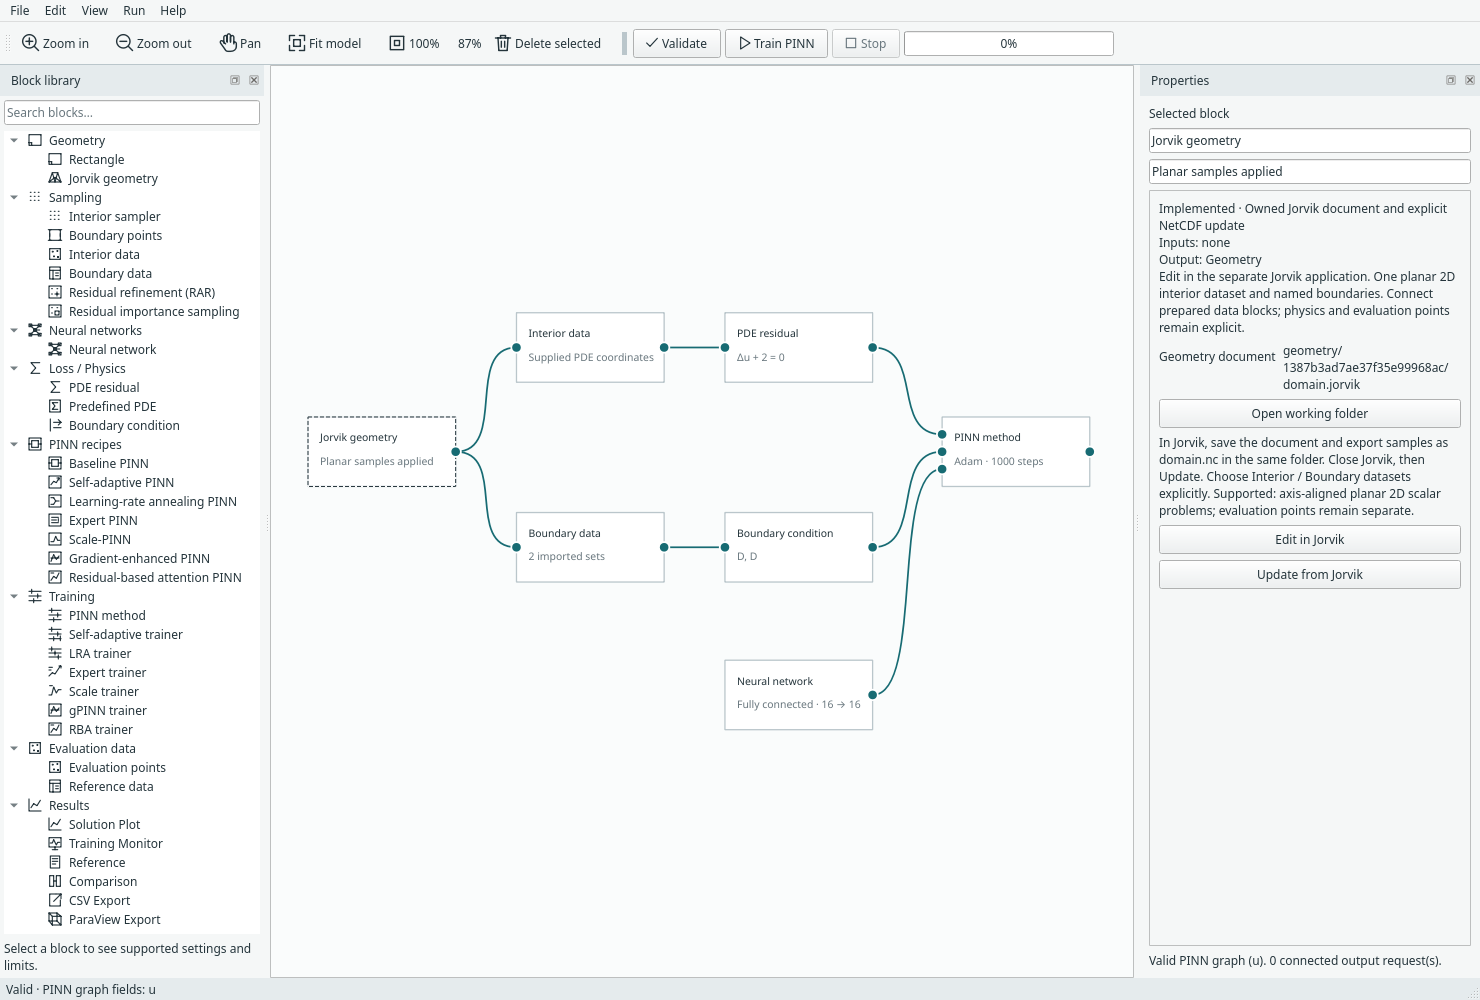
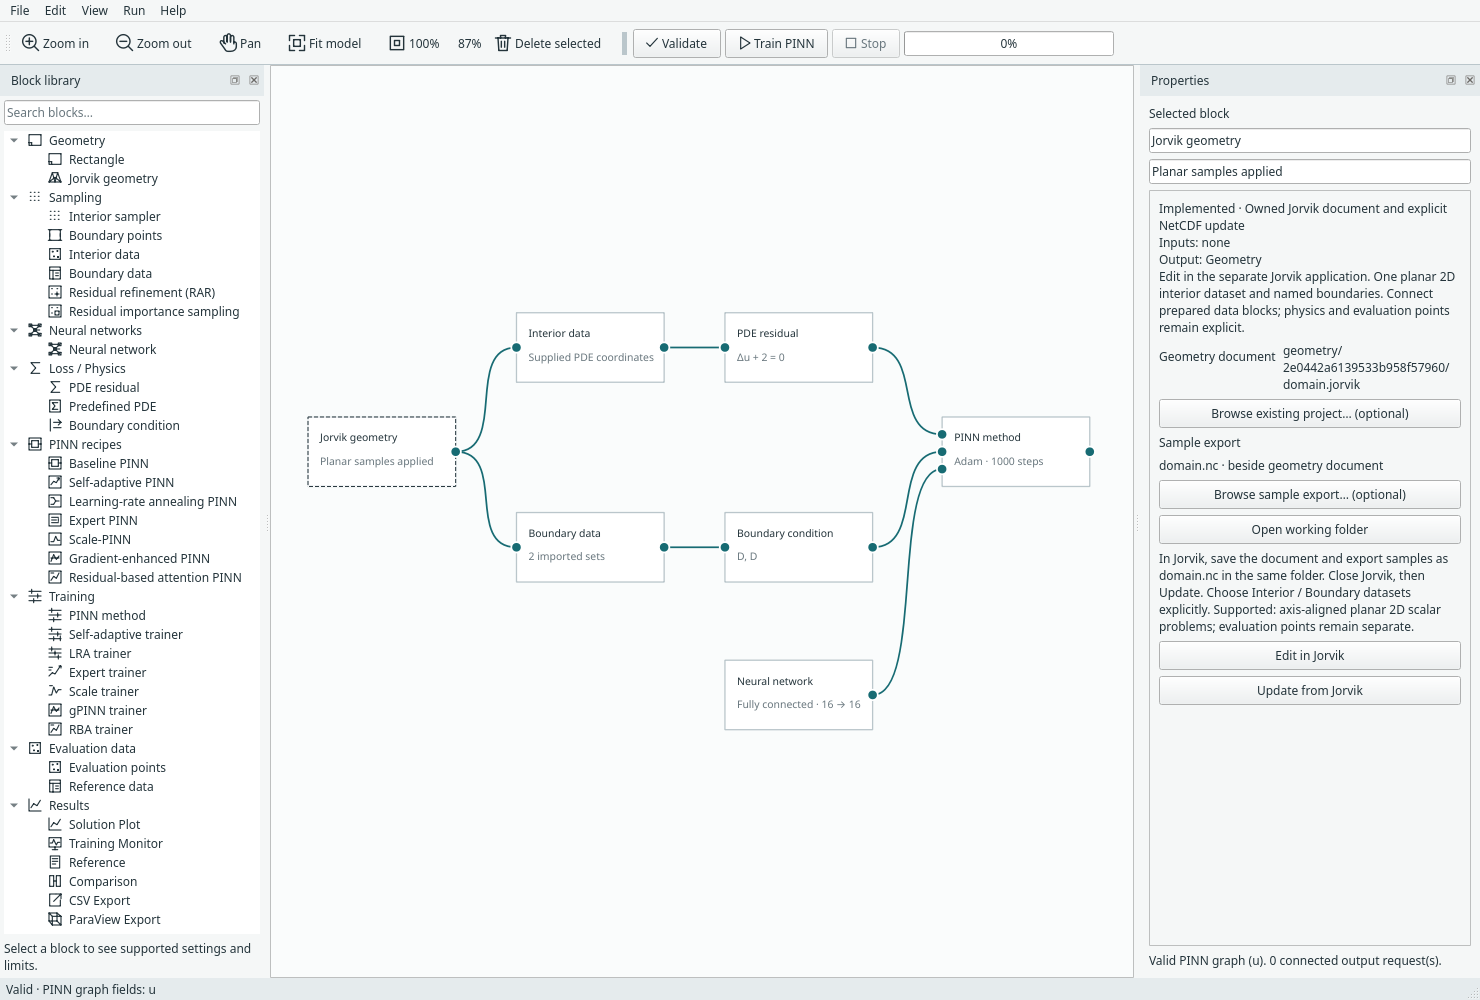
Add optional Jorvik project and sample export file pickers
Keep selected files as validated owned copies, preserve portable undoable choices, and retain explicit sample updates.

Changed region(s): [[0.777, 0.403, 0.9946, 0.713], [0.8703, 0.341, 0.9635, 0.372]]

diff --git a/margam/ui/jorvik_geometry.py b/margam/ui/jorvik_geometry.py
@@ -4,10 +4,11 @@ import hashlib
 from pathlib import Path
 import shutil
 import sys
+from zipfile import BadZipFile
 from uuid import uuid4
 from PySide6.QtCore import QProcess, QIODevice, QUrl
 from PySide6.QtGui import QDesktopServices
-from PySide6.QtWidgets import QDialog, QDialogButtonBox, QVBoxLayout, QFormLayout, QLabel, QComboBox, QLineEdit, QMessageBox, QPushButton
+from PySide6.QtWidgets import QDialog, QDialogButtonBox, QVBoxLayout, QFormLayout, QLabel, QComboBox, QLineEdit, QMessageBox, QPushButton, QFileDialog
 from ..components.jorvik_data import records, inspect_selection
 from .graph_model import parameters_for
 
@@ -44,12 +45,64 @@ class DatasetDialog(QDialog):
 
 class JorvikGeometryActions:
     def jorvik_document(self,node,create=False):
-        path=Path(self.project_workspace.resolve('margam-owned:'+document_relative(node.identifier)))
+        reference=node.settings.get('jorvik_files',{}).get('document','margam-owned:'+document_relative(node.identifier))
+        path=Path(self.project_workspace.resolve(reference))
         if create and not path.exists():
             from jorvik.project import create_empty_project
             path.parent.mkdir(parents=True,exist_ok=True)
             create_empty_project(path)
         return path
+
+    def jorvik_export(self,node):
+        reference=node.settings.get('jorvik_files',{}).get('export')
+        return Path(self.project_workspace.resolve(reference)) if reference else self.jorvik_document(node).with_suffix('.nc')
+
+    def browse_jorvik(self,node,kind,path=None):
+        if self.is_running() or self.scene.locked:return False
+        if kind not in ('document','export'):raise ValueError('Unknown Jorvik file role.')
+        if path is None:
+            title,pattern=('Choose existing Jorvik project','Jorvik project (*.jorvik *.gsproj)') if kind=='document' else ('Choose Jorvik sample export','NetCDF samples (*.nc)')
+            path,_=QFileDialog.getOpenFileName(self,title,str(self.jorvik_document(node).parent),pattern)
+        if not path:return False
+        copied=None
+        try:
+            source=Path(path)
+            if kind=='document':
+                if source.suffix.lower() not in ('.jorvik','.gsproj'):raise ValueError('Choose a Jorvik project file.')
+                from jorvik.project import load_project
+                load_project(source)
+            else:
+                if source.suffix.lower()!='.nc':raise ValueError('Choose a NetCDF sample export.')
+                records(source)
+            relative=Path(document_relative(node.identifier)).parent/'imports'/uuid4().hex/('domain.jorvik' if kind=='document' else 'domain.nc')
+            copied=Path(self.project_workspace.resolve('margam-owned:'+relative.as_posix()))
+            copied.parent.mkdir(parents=True,exist_ok=True);shutil.copyfile(source,copied)
+            # Check the owned copy before changing any block settings.
+            if kind=='document':load_project(copied)
+            else:records(copied)
+            old=deepcopy(node.settings);new=deepcopy(old)
+            files=new.setdefault('jorvik_files',{})
+            files[kind]='margam-owned:'+relative.as_posix()
+            if kind=='document':
+                files.pop('export',None);files['needs_update']=True
+            def apply(settings):
+                node.settings=deepcopy(settings);self.graph_changed();self.selection_changed()
+            self.push_edit('Choose Jorvik '+kind,lambda:apply(new),lambda:apply(old))
+            self.statusBar().showMessage('Copied '+source.name+' into this project · Update from Jorvik to apply samples')
+            return True
+        except (OSError,ValueError,TypeError,KeyError,ImportError,BadZipFile) as error:
+            if copied is not None:copied.unlink(missing_ok=True)
+            QMessageBox.warning(self,'Jorvik file could not be selected',str(error));return False
+
+    def use_adjacent_jorvik_export(self,node):
+        if self.is_running() or self.scene.locked:return False
+        old=deepcopy(node.settings);new=deepcopy(old)
+        new.get('jorvik_files',{}).pop('export',None)
+        if old==new:return False
+        def apply(settings):
+            node.settings=deepcopy(settings);self.graph_changed();self.selection_changed()
+        self.push_edit('Use adjacent Jorvik export',lambda:apply(new),lambda:apply(old))
+        return True
 
     def edit_jorvik(self,node):
         if self.is_running() or self.scene.locked:return False
@@ -85,7 +138,7 @@ class JorvikGeometryActions:
         if self.is_running() or self.scene.locked:return False
         snapshot=None
         try:
-            path=self.jorvik_document(node).with_suffix('.nc')
+            path=self.jorvik_export(node)
             previous=node.settings.get('jorvik',{})
             if selections is None:
                 dialog=DatasetDialog(path,previous,self)
@@ -134,6 +187,7 @@ class JorvikGeometryActions:
                     datasets[identity]=dict(role='interior',name=record['label'])
             for name,record in report['boundaries'].items():datasets[record['identity']]=dict(role='boundary',name=name)
             new[node.identifier]['jorvik']=dict(axes=report['axes'],datasets=datasets,sha256=report['sha256'])
+            if 'jorvik_files' in new[node.identifier]:new[node.identifier]['jorvik_files']['needs_update']=False
             interior=new[sources['interior_data'].identifier]['parameters'];interior.update(interior_data=mapping(report['interior']),adaptive_sampling={})
             boundary=new[sources['boundary_data'].identifier]['parameters'];boundary['boundary_data']={name:mapping(record['mapping']) for name,record in report['boundaries'].items()}
             for physics_node in physics_nodes:
@@ -163,7 +217,14 @@ class JorvikGeometryActions:
 
     def jorvik_fields(self,node):
         path=self.jorvik_document(node)
-        label=QLabel(document_relative(node.identifier));label.setToolTip(str(path));label.setWordWrap(True);self.form.addRow('Geometry document',label)
+        relative=node.settings.get('jorvik_files',{}).get('document','margam-owned:'+document_relative(node.identifier)).removeprefix('margam-owned:')
+        label=QLabel(relative);label.setToolTip(str(path));label.setWordWrap(True);self.form.addRow('Geometry document',label)
+        browse=QPushButton('Browse existing project… (optional)');browse.clicked.connect(lambda:self.browse_jorvik(node,'document'));self.form.addRow(browse)
+        export=self.jorvik_export(node)
+        label=QLabel(export.name+(' · selected copy' if node.settings.get('jorvik_files',{}).get('export') else ' · beside geometry document'));label.setToolTip(str(export));self.form.addRow('Sample export',label)
+        browse=QPushButton('Browse sample export… (optional)');browse.clicked.connect(lambda:self.browse_jorvik(node,'export'));self.form.addRow(browse)
+        if node.settings.get('jorvik_files',{}).get('export'):
+            reset=QPushButton('Use export beside geometry document');reset.clicked.connect(lambda:self.use_adjacent_jorvik_export(node));self.form.addRow(reset)
         folder=QPushButton('Open working folder');folder.clicked.connect(lambda:QDesktopServices.openUrl(QUrl.fromLocalFile(str(path.parent))));self.form.addRow(folder)
         note=QLabel('In Jorvik, save the document and export samples as domain.nc in the same folder. Close Jorvik, then Update. Choose Interior / Boundary datasets explicitly. Supported: axis-aligned planar 2D scalar problems; evaluation points remain separate.');note.setWordWrap(True);self.form.addRow(note)
         for text,action in [('Edit in Jorvik',self.edit_jorvik),('Update from Jorvik',self.update_jorvik)]:

diff --git a/margam/ui/model_document.py b/margam/ui/model_document.py
@@ -27,7 +27,7 @@ def number(value):
 def decode_document(data):
     """Validate editor structure; incomplete/physically invalid drafts are allowed."""
     require(isinstance(data, dict) and set(data) == {'format', 'version', 'config', 'nodes', 'wires'}, 'Invalid Margam model document.')
-    require(data['format'] == 'margam-model' and type(data['version']) is int and data['version'] in (1,2,3,4,5,6,7,8,9,10,11,12,13,14,15,16,17,18,19,20,21,22,23,24), 'Unsupported Margam model format/version.')
+    require(data['format'] == 'margam-model' and type(data['version']) is int and data['version'] in (1,2,3,4,5,6,7,8,9,10,11,12,13,14,15,16,17,18,19,20,21,22,23,24,25), 'Unsupported Margam model format/version.')
     c = data['config']
     if isinstance(c,dict) and data['version'] in (1,2,3,4,5,6,7,8,9,10):
         c=dict(c)
@@ -121,10 +121,21 @@ def decode_document(data):
         require(isinstance(node['title'],str) and 0 < len(node['title'].strip()) <= 256, 'Invalid block name.')
         require(isinstance(node['position'],list) and len(node['position']) == 2 and all(number(v) and abs(v) <= 1e9 for v in node['position']), 'Invalid block position.')
         settings = node['settings']
-        require(isinstance(settings,dict) and {'resolution','history_limit'} <= set(settings) <= {'resolution','history_limit','reference_expression','reference_data','parameters','source_data','jorvik'}, 'Invalid output settings.')
+        require(isinstance(settings,dict) and {'resolution','history_limit'} <= set(settings) <= {'resolution','history_limit','reference_expression','reference_data','parameters','source_data','jorvik','jorvik_files'}, 'Invalid output settings.')
         require(type(settings['resolution']) is int and 2 <= settings['resolution'] <= 201 and type(settings['history_limit']) is int and 25 <= settings['history_limit'] <= 100000, 'Unsupported output settings.')
         require(isinstance(settings.get('reference_expression',''),str) and len(settings.get('reference_expression',''))<=512,'Invalid reference expression.')
         if settings.get('reference_data'):validate_mapping(settings['reference_data'])
+        if 'jorvik_files' in settings:
+            from pathlib import PurePosixPath
+            files=settings['jorvik_files']
+            require(node['kind']=='jorvik_geometry' and isinstance(files,dict) and set(files)<={'document','export','needs_update'},'Invalid Jorvik file choices.')
+            if 'needs_update' in files:require(type(files['needs_update']) is bool,'Invalid Jorvik update state.')
+            for kind in ('document','export'):
+                if kind not in files:continue
+                value=files[kind]
+                require(isinstance(value,str) and value.startswith('margam-owned:') and len(value)<=4096,'Jorvik choices must be project-owned.')
+                relative=PurePosixPath(value.removeprefix('margam-owned:'))
+                require(not relative.is_absolute() and '..' not in relative.parts and '\\' not in value and relative.suffix==('.jorvik' if kind=='document' else '.nc'),'Invalid owned Jorvik file path.')
         if 'jorvik' in settings:
             j=settings['jorvik']
             require(node['kind']=='jorvik_geometry' and isinstance(j,dict) and set(j)=={'axes','datasets','sha256'},'Invalid Jorvik settings.')
@@ -178,7 +189,7 @@ def decode_document(data):
             if node['kind'] in ('interior','interior_data'):require(parameters['adaptive_sampling']=={},'Use a dedicated adaptive sampler block.')
             if node['kind']=='network':require(type(parameters['network_seed']) is int,'Network instances require an explicit seed.')
             trial=asdict(config);trial.update(parameters)
-            decode_document({'format':'margam-model','version':24,'config':trial,'nodes':[],'wires':[]})
+            decode_document({'format':'margam-model','version':25,'config':trial,'nodes':[],'wires':[]})
         by_id[identifier] = node
     occupied = set()
     for wire in wires:
@@ -196,7 +207,7 @@ def decode_document(data):
 
 
 def capture_model(window):
-    document = {'format':'margam-model', 'version':24, 'config':asdict(window.config),
+    document = {'format':'margam-model', 'version':25, 'config':asdict(window.config),
             'nodes':[{'id':n.identifier,'kind':n.kind,'title':n.title,
                       'position':[n.pos().x(),n.pos().y()],'settings':deepcopy(n.settings)}
                      for n in sorted(window.scene.nodes(),key=lambda n:n.identifier)],

diff --git a/tests/test_jorvik.py b/tests/test_jorvik.py
@@ -75,9 +75,29 @@ with TemporaryDirectory() as directory:
     for node in list(w.scene.nodes()):
         if node.kind in ('domain','interior','boundary'):w.delete_block(node)
     geometry=w.add_node('Jorvik geometry')
+    initial=w.jorvik_document(geometry)
+    from jorvik.project import create_empty_project
+    external=Path(directory)/'existing.gsproj';create_empty_project(external)
+    original=external.read_bytes()
+    with patch('margam.ui.jorvik_geometry.QFileDialog.getOpenFileName',return_value=('','')):
+        assert not w.browse_jorvik(geometry,'document')
+    assert w.jorvik_document(geometry)==initial
+    assert w.browse_jorvik(geometry,'document',external)
+    assert external.read_bytes()==original and w.jorvik_document(geometry)!=external
+    w.undo_edit();assert w.jorvik_document(geometry)==initial
+    w.redo_edit()
     project=w.jorvik_document(geometry)
     assert project.suffix=='.jorvik' and project.exists()
     fixture(project.with_suffix('.nc'))
+    external_nc=Path(directory)/'different-name.nc';shutil.copyfile(project.with_suffix('.nc'),external_nc)
+    assert w.browse_jorvik(geometry,'export',external_nc)
+    chosen=w.jorvik_export(geometry);assert chosen!=external_nc and chosen.read_bytes()==external_nc.read_bytes()
+    assert w.use_adjacent_jorvik_export(geometry) and w.jorvik_export(geometry)==project.with_suffix('.nc')
+    w.undo_edit();assert w.jorvik_export(geometry)==chosen
+    before_bad=capture_model(w);broken=Path(directory)/'bad.jorvik';broken.write_bytes(b'bad')
+    with patch.object(QMessageBox,'warning'):
+        assert not w.browse_jorvik(geometry,'document',broken)
+    assert capture_model(w)==before_bad
     assert w.update_jorvik(geometry,SELECTION,confirm=False)
     interior=next(n for n in w.scene.nodes() if n.kind=='interior_data')
     boundary=next(n for n in w.scene.nodes() if n.kind=='boundary_data')
@@ -106,6 +126,13 @@ with TemporaryDirectory() as directory:
     config=w.scene.compile_config();assert config.shape=='Prepared2D'
     assert len(read_training_sets(config)[0][0])==3
     doc=capture_model(w);decode_document(doc)
+    from copy import deepcopy
+    invalid=deepcopy(doc)
+    record=next(n for n in invalid['nodes'] if n['kind']=='jorvik_geometry')
+    record['settings']['jorvik_files']['document']='margam-owned:../outside.jorvik'
+    try:decode_document(invalid)
+    except ValueError:pass
+    else:raise AssertionError('Escaping project file reference accepted')
     assert 'margam-owned:' in str(doc) and str(project.parent) not in str(doc)
     original=Path(directory)/'first.margam.json'
     assert w.save_model(original) and not project.exists()
@@ -114,7 +141,7 @@ with TemporaryDirectory() as directory:
     assert 'margam-owned:' in original.read_text()
     assert w.validate_model()
     # Changing the editable export cannot mutate the previously applied snapshot.
-    export=w.jorvik_document(geometry).with_suffix('.nc');export.write_bytes(b'incomplete')
+    export=w.jorvik_export(geometry);export.write_bytes(b'incomplete')
     before=capture_model(w)
     with patch.object(QMessageBox,'warning'):
         assert not w.update_jorvik(geometry,SELECTION,confirm=False)

diff --git a/margam/ui/app.py b/margam/ui/app.py
@@ -1535,7 +1535,7 @@ class Window(JorvikGeometryActions,QMainWindow):
             if node.kind=='boundary':node.title='Case sample sets' if c.is_paper_case or c.pde_preset=='kdv_1d' else 'Boundary / initial points' if c.is_time_dependent else 'Boundary points'
             if node.kind=='bc':node.title='Case conditions' if c.is_paper_case or c.pde_preset=='kdv_1d' else 'Boundary / initial conditions' if c.is_time_dependent else 'Boundary condition'
             if node.kind=='network':node.title='Neural network' if c.network_type=='fcnn' else NETWORK_NAMES[c.network_type]
-            details['jorvik_geometry']='Planar samples applied' if node.settings.get('jorvik',{}).get('sha256') else 'Edit geometry · update samples'
+            details['jorvik_geometry']='Selected document · update samples' if node.settings.get('jorvik_files',{}).get('needs_update') else 'Planar samples applied' if node.settings.get('jorvik',{}).get('sha256') else 'Edit geometry · update samples'
             node.detail=details[node.kind]
             if node.kind=='reference' and (node.settings.get('reference_expression') or node.settings.get('reference_data')):node.detail='Explicit user reference'
             node.update()

diff --git a/margam/ui/graph_model.py b/margam/ui/graph_model.py
@@ -105,7 +105,7 @@ def assemble(nodes,wires,*,require_all=True):
     if require_all and any(node.kind in PARAMETERS and node not in used for node in nodes):raise ValueError('Unconnected core blocks are not executable; remove them or wire a single supported problem.')
     config=PoissonConfig()
     for node in used:config=overlay(config,node.kind,node.settings['parameters'])
-    if domain.kind=='jorvik_geometry' and not domain.settings.get('jorvik',{}).get('sha256'):
+    if domain.kind=='jorvik_geometry' and (domain.settings.get('jorvik_files',{}).get('needs_update') or not domain.settings.get('jorvik',{}).get('sha256')):
         raise ValueError('Update from Jorvik before training this geometry.')
     if interior.kind=='interior_data' and not config.interior_data:raise ValueError('Map a coordinate source on Interior data.')
     if boundary.kind=='boundary_data' and not config.boundary_data:raise ValueError('Map at least one named set on Boundary data.')

diff --git a/tests/test_evaluation_ui.py b/tests/test_evaluation_ui.py
@@ -27,7 +27,7 @@ try:
  nodes={n.kind:n for n in w.scene.nodes()};points=nodes['evaluation_points'];ref=nodes['reference_data'];comparison=nodes['comparison'];export=nodes['export'];pv=nodes['paraview']
  assert w.scene.connection_error(points.output,nodes['interior'].inputs['input'])
  dialog=EvaluationMappingDialog(w.config,points.settings['source_data'],w);assert dialog.check();assert 'node-B' in dialog.preview.toPlainText();dialog.deleteLater()
- doc=capture_model(w);assert doc['version']==24;decode_document(doc)
+ doc=capture_model(w);assert doc['version']==25;decode_document(doc)
  w.change('iterations',3);w.change('device','cpu');assert w.start_training();finish()
  model=w.last_run.model;before=model.training_state();data=w.result['outputs'][comparison.identifier]
  assert data['point_ids']==['node-B','node-A','node-D','node-C'] and data['points']==[[.75],[0.],[.25],[1.]]

diff --git a/tests/test_gpinn_ui.py b/tests/test_gpinn_ui.py
@@ -31,7 +31,7 @@ try:
    settings=dict(w.config.adaptive_sampling,interval=2,candidates=20,batch=2,maximum=20);w.change('adaptive_sampling',settings)
   trainer=next(n for n in w.scene.nodes() if n.kind=='gpinn_method');compact=w.collapse_recipe(trainer);assert compact
   w.show_block_properties(compact);assert w.property_scroll.findChild(QDoubleSpinBox,'gpinn_weight_x');w.expand_recipe(compact)
-  doc=capture_model(w);assert doc['version']==24;decode_document(doc)
+  doc=capture_model(w);assert doc['version']==25;decode_document(doc)
   assert w.start_training();finish();assert w.result['steps']==3
   record=w.last_run.model.loss_history[-1];assert 'pde_grad_x' in record
   monitor=next(n for n in w.scene.nodes() if n.kind=='monitor');w.open_block(monitor);app.processEvents()

diff --git a/tests/test_rba_ui.py b/tests/test_rba_ui.py
@@ -29,7 +29,7 @@ try:
    if node.kind in ('solution','comparison','export','paraview'):node.settings['resolution']=5
   trainer=next(n for n in w.scene.nodes() if n.kind=='rba_method');compact=w.collapse_recipe(trainer);assert compact;w.show_block_properties(compact)
   assert w.property_scroll.findChild(QDoubleSpinBox,'rba_decay');w.expand_recipe(compact)
-  doc=capture_model(w);assert doc['version']==24;decode_document(doc)
+  doc=capture_model(w);assert doc['version']==25;decode_document(doc)
   assert w.start_training();finish();assert w.result['steps']==3 and not w.last_run.model.attention.requires_grad
   monitor=next(n for n in w.scene.nodes() if n.kind=='monitor');w.open_block(monitor);app.processEvents()
   assert 'pde_weighted' in w.last_run.model.loss_history[-1]

diff --git a/tests/test_integral_loss_ui.py b/tests/test_integral_loss_ui.py
@@ -32,7 +32,7 @@ try:
     w.scene.clearSelection();compact.setSelected(True);app.processEvents()
     choice=w.property_scroll.findChild(QComboBox,'loss_formulation');assert choice.currentData()=='integral'
     w.expand_recipe(compact);assert asdict(w.scene.compile_config())==before
-    doc=capture_model(w);assert doc['version']==24;decode_document(doc)
+    doc=capture_model(w);assert doc['version']==25;decode_document(doc)
     with TemporaryDirectory() as directory:
         p=Path(directory)/'integral.json';assert w.save_model(p) and w.load_model(p)
         assert asdict(w.scene.compile_config())==before

diff --git a/tests/test_training_data_ui.py b/tests/test_training_data_ui.py
@@ -33,7 +33,7 @@ try:
  w.undo_stack.undo();assert 'slope' in w.scene.compile_config().sides
  w.undo_stack.redo();assert 'slope' not in w.scene.compile_config().sides
  w.undo_stack.undo();assert 'slope' in w.scene.compile_config().sides
- document=capture_model(w);assert document['version']==24;decode_document(document)
+ document=capture_model(w);assert document['version']==25;decode_document(document)
  with TemporaryDirectory() as directory:
   directory=Path(directory);path=directory/'triangle.margam.json';assert w.save_model(path);assert w.load_model(path)
   assert capture_model(w)==document

diff --git a/tests/test_predefined_examples.py b/tests/test_predefined_examples.py
@@ -72,7 +72,7 @@ for key in EXAMPLE_PROBLEMS:
     assert not w.output_views.entries
     document=capture_model(w)
     decode_document(document)
-    assert document['version']==24
+    assert document['version']==25
     from tempfile import TemporaryDirectory
     from pathlib import Path
     with TemporaryDirectory() as directory:

diff --git a/docs/jorvik.md b/docs/jorvik.md
@@ -50,6 +50,28 @@ outer-boundary points. Dataset roles are explicit; labels do not decide physics.
 *The geometry block opens its document in the external editor. This capture applies
 an actual annulus export to a newly created block; its editor document starts empty.*
 
+## Optional existing files
+
+Both browse buttons are optional. A new block still starts with an empty document
+and defaults to `domain.nc` beside it.
+
+- **Browse existing project… (optional)** accepts `.jorvik` or legacy `.gsproj`.
+  Margam validates and copies it into this project's owned files. Editing this copy
+  does not overwrite the original. Choosing a different document requires an
+  explicit sample update before training and resets any custom export selection.
+- **Browse sample export… (optional)** accepts an existing Jorvik `.nc` file with
+  any filename. Margam validates and copies it into its owned files. **Update from
+  Jorvik** then uses this selected copy, with the usual dataset-role mapping.
+  Selecting the file alone does not apply its datasets. To pick up later external
+  changes, browse the export again.
+- **Use export beside geometry document** clears the optional export override and
+  restores the adjacent `domain.nc` default.
+
+Both selections are undoable, survive Save/Save As and recovery, and move with the
+project companion folder. Cancelling a picker leaves the block unchanged. The
+named BC sets remain separate for physics assignment; per-boundary loss weight
+controls are separate future work.
+
 ## Updates and boundary identity
 
 Each applied update copies the NetCDF file to an immutable, uniquely named snapshot.
